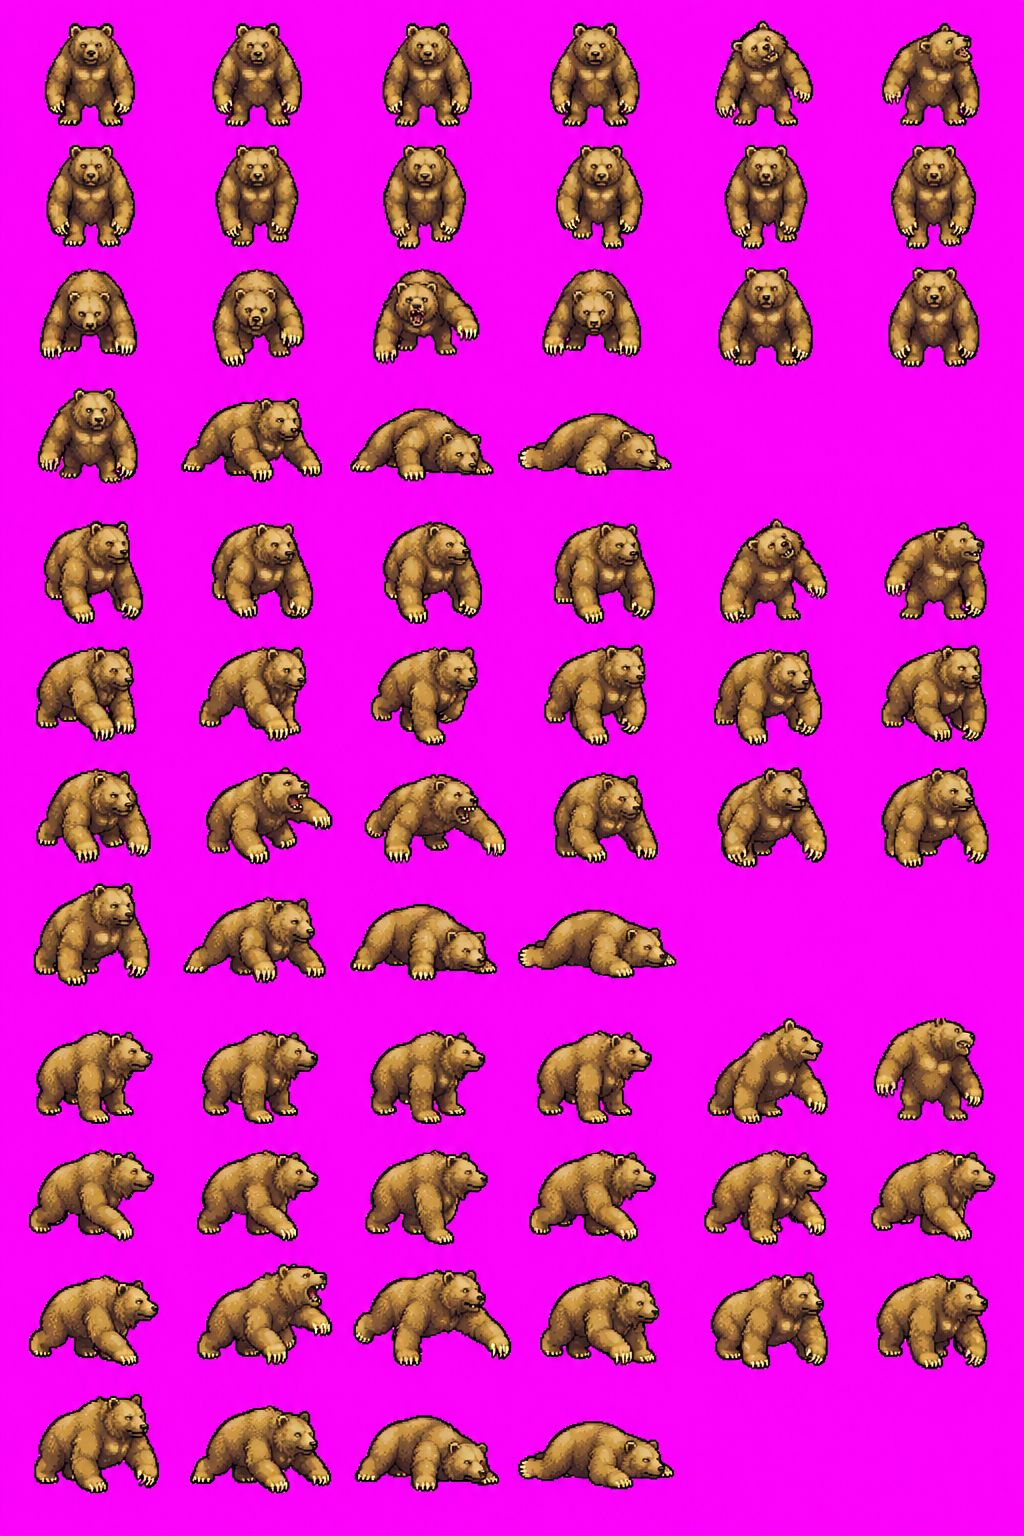
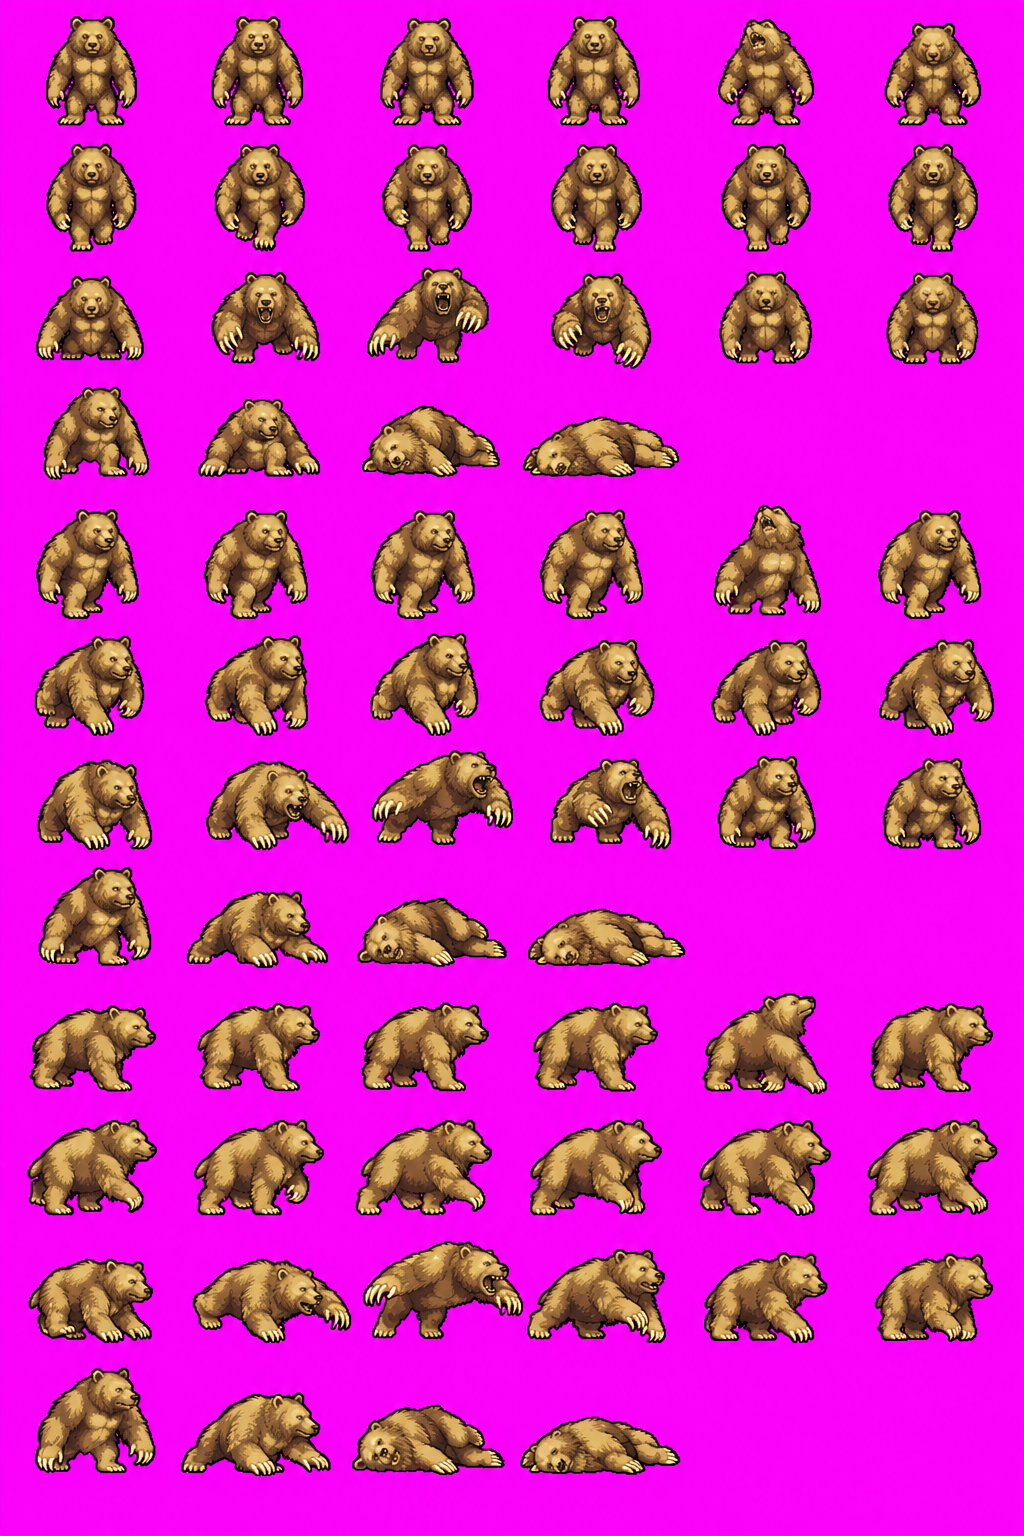
art: chọn A2 và ghi ô nghi lỗi Ám Kim Khủng Trảo Hùng

diff --git a/art/src/beast-anim/am_kim_khung_trao_hung/NGUON.md b/art/src/beast-anim/am_kim_khung_trao_hung/NGUON.md
@@ -1,17 +1,20 @@
 # Ám Kim Khủng Trảo Hùng — H4 #767
 
-Part of #767, thuộc #766. Tờ A candidate 1/10 của batch, chưa duyệt mỹ thuật/runtime. Ngày 2026-10-26, worker soul-land-mmo-63.
+Part of #767, thuộc #766. Tờ A candidate 1/10 của batch, chưa owner duyệt mỹ thuật/runtime. Ngày 2026-10-26, fresh worker soul-land-mmo-63.
 
-Sinh bằng builtin `image_gen.imagegen`; không có selector kích thước/model, không trả model ID/seed. Prompt nguyên khối từ script ở `toA.prompt.txt`; mẫu ở `am_kim_khung_trao_hung-toA.md`. Reference chỉ ảnh tĩnh đúng loài, đã xem trước. Raw 1024×1536, giữ nguyên byte, không cắt/hậu kỳ/resize/đổi metadata. Nguồn, hash, tham số thực và vị trí nghi lỗi ở `toA.source.json`.
+Sinh bằng builtin `image_gen.imagegen`, không có size/model selector, không trả model ID/seed. Hai lượt cùng tờ A trong phiên63; chọn A2 vì attack/hurt rõ hơn A1. Dừng ở giới hạn 2 lượt; không vẽ tờ B hay loài khác trong phiên này.
 
-Mỗi tờ phải phiên mới. Phiên63 chỉ tờ A; B và loài khác chưa sinh. Tờ B phải thêm ảnh tĩnh và candidate A được chọn, ghi rõ trạng thái owner duyệt.
+Prompt mẫu nguyên vẹn từ script ở `am_kim_khung_trao_hung-toA.md`; prompt thực `toA.prompt.txt` thêm đoạn làm rõ trục hurt/die và góc se. Chỉ reference ảnh tĩnh đúng loài `shared/assets/sprites/beast/am_kim_khung_trao_hung.png`, đã xem trước. Nguồn/giấy phép ảnh tĩnh đã có trong CREDITS. Không tham chiếu loài khác hoặc ảnh thương mại.
+
+Raw A2 1024×1536, lưới 6×12 s/se/e, 66 vị trí hình và sáu ô trống H4/H8/H12 C5–6 theo bố cục yêu cầu. Quan sát ảnh raw, chưa cutter/preview. Giữ nguyên byte, không cắt/hậu kỳ/resize/quantize/đổi metadata. `toA.source.json` ghi hash/params/reference/lịch sử. A1 và A2 đầy đủ ở artifact worker63 ngoài Git.
 
 ## Ô nghi lỗi (hàng/cột từ 1)
 
-- H1 C5–6 hurt quay đầu phải, thiếu giật lùi rõ.
-- H4 C2–4 die đổi trục nam sang phải.
-- H5–7 vài pose se gần e; H5 C5–6 hurt xoay mặt.
-- H9 C5–6 hurt xoay khỏi hướng đông.
-- H8/H12 C3–4 die cần kiểm trục và cỡ khi cắt preview.
+- H1 C5 và H5 C5: hurt ngửa đầu, cần kiểm đủ giật lùi và giữ hướng s/se.
+- H4 C1–4: die đổi trục nam, C3–4 đầu quay trái; cần owner xem toàn chu kỳ.
+- H8 C3–4 và H12 C3–4: die nằm quay về người xem, nghi sai trục se/e.
+- H5–7 C1–6: kiểm se đủ khác e; H7 C3–4 thân vồ rộng, cần kiểm mép ô.
+- H11 C3–4: attack đầu/thân hơi xoay trước, cần kiểm trục e.
+- Toàn tờ: chưa cắt/preview, chưa xác nhận loop và độ khớp cỡ với ảnh tĩnh.
 
-Owner repo cắt/preview/duyệt; worker không xác nhận độ mượt hoặc nhập game.
+Mỗi tờ tiếp theo phải phiên mới. B cần cả ảnh tĩnh và A selected; A2 mới là candidate, chưa owner duyệt. Không coi ngoại lệ offsize H2 là acceptance H4; A2 hiện đúng kích thước yêu cầu. Owner repo cắt/preview/duyệt/nhập game. Không sửa runtime/manifest/client/server/shared/DB.

diff --git a/art/CREDITS.md b/art/CREDITS.md
@@ -2227,7 +2227,7 @@ Phong Lang: `art/src/beast-anim/phong_lang/toA.png` (1024×1536, lượt 3), `to
 
 Thái Thản Cự Viên: `art/src/beast-anim/thai_than_cu_vien/toA.png` đến `toE.png` (mỗi tờ 1536×1024, 22 hình; hướng s/se/e/ne/n), sinh ngày 2026-10-26 bằng `image_gen.imagegen` tích hợp Codex. Reference thiết kế là ảnh tĩnh gốc `shared/assets/sprites/beast/thai_than_cu_vien.png`; B–E thêm candidate A tham chiếu nét/màu. A/B/D/E một lượt, C chọn lượt hai. Công cụ không trả model ID hoặc seed. Giữ nguyên byte, không hậu kỳ/cắt/resize/đổi metadata. Prompt thực và provenance từng tờ: [NGUON.md](src/beast-anim/thai_than_cu_vien/NGUON.md), `toX.prompt.txt`, `toX.source.json` cùng thư mục. Candidate còn nghi lỗi hướng/mép ô, đã được duyệt và nhập game ở `beast_thai_than_cu_vien_anim` (Part of #688). Part of #691, #688; PR #726.
 
-Ám Kim Khủng Trảo Hùng (H4 #767): raw `art/src/beast-anim/am_kim_khung_trao_hung/toA.png` (1024×1536, lượt 1), tthoadev sinh ngày 2026-10-26 bằng `image_gen.imagegen` tích hợp Codex. Chỉ reference ảnh tĩnh gốc đúng loài; tool không trả model ID/seed, không có size/model selector. Giữ nguyên byte, không hậu kỳ. Prompt thực, nguồn và hash: [NGUON.md](src/beast-anim/am_kim_khung_trao_hung/NGUON.md), `toA.prompt.txt`, `toA.source.json`. Candidate chờ owner cắt/preview, chưa duyệt mỹ thuật/runtime; tiến độ batch 1/10 raw.
+Ám Kim Khủng Trảo Hùng (H4 #767): raw `art/src/beast-anim/am_kim_khung_trao_hung/toA.png` (1024×1536, chọn lượt 2/2), tthoadev sinh ngày 2026-10-26 bằng `image_gen.imagegen` tích hợp Codex. Chỉ reference ảnh tĩnh gốc đúng loài; tool không trả model ID/seed, không có size/model selector. Giữ nguyên byte, không hậu kỳ. Prompt thực, nguồn và hash: [NGUON.md](src/beast-anim/am_kim_khung_trao_hung/NGUON.md), `toA.prompt.txt`, `toA.source.json`. Candidate chờ owner cắt/preview, chưa duyệt mỹ thuật/runtime; tiến độ batch 1/10 raw.
 
 <!-- private-assets:start -->
 ## Asset kho riêng (không nằm trong repo công khai)
